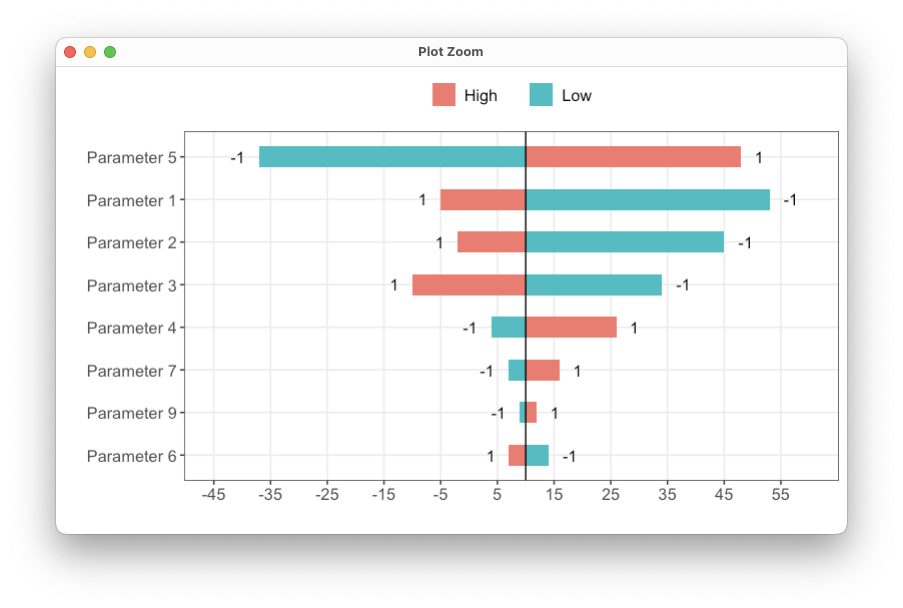
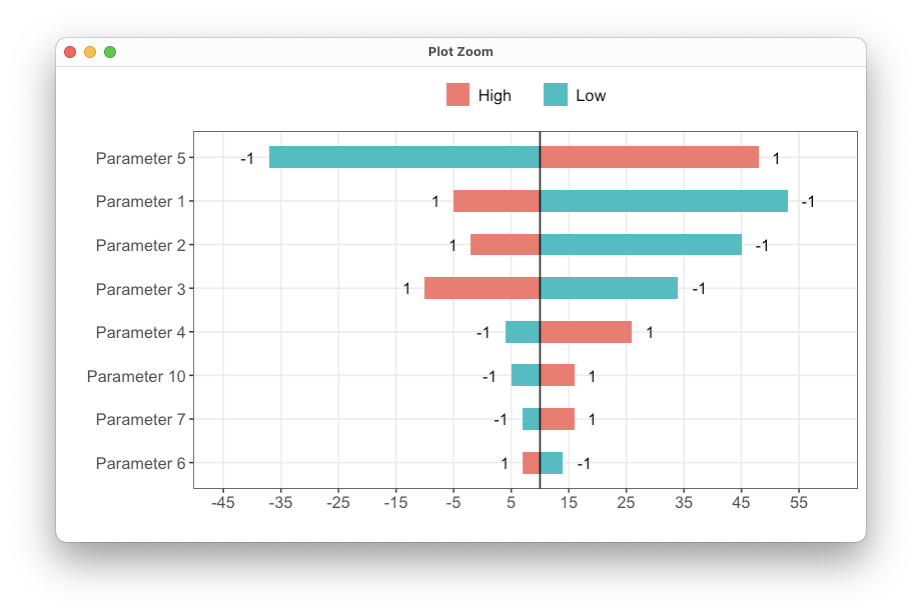
Save

diff --git a/_posts/2025-06-13-tornado-plot-in-ggplot2.md b/_posts/2025-06-13-tornado-plot-in-ggplot2.md
@@ -28,7 +28,7 @@ outcome.base <- 10
 # Order by the difference between the High and Low value
 df <- read.csv('DSA.csv') %>%
   group_by(parameter) %>%
-  mutate(diff = sum(abs(outcome))) %>%
+  mutate(diff = sum(abs(outcome - outcome.base))) %>%
   arrange(diff, parameter, direction)
 
 # Keep the top 8 parameters
